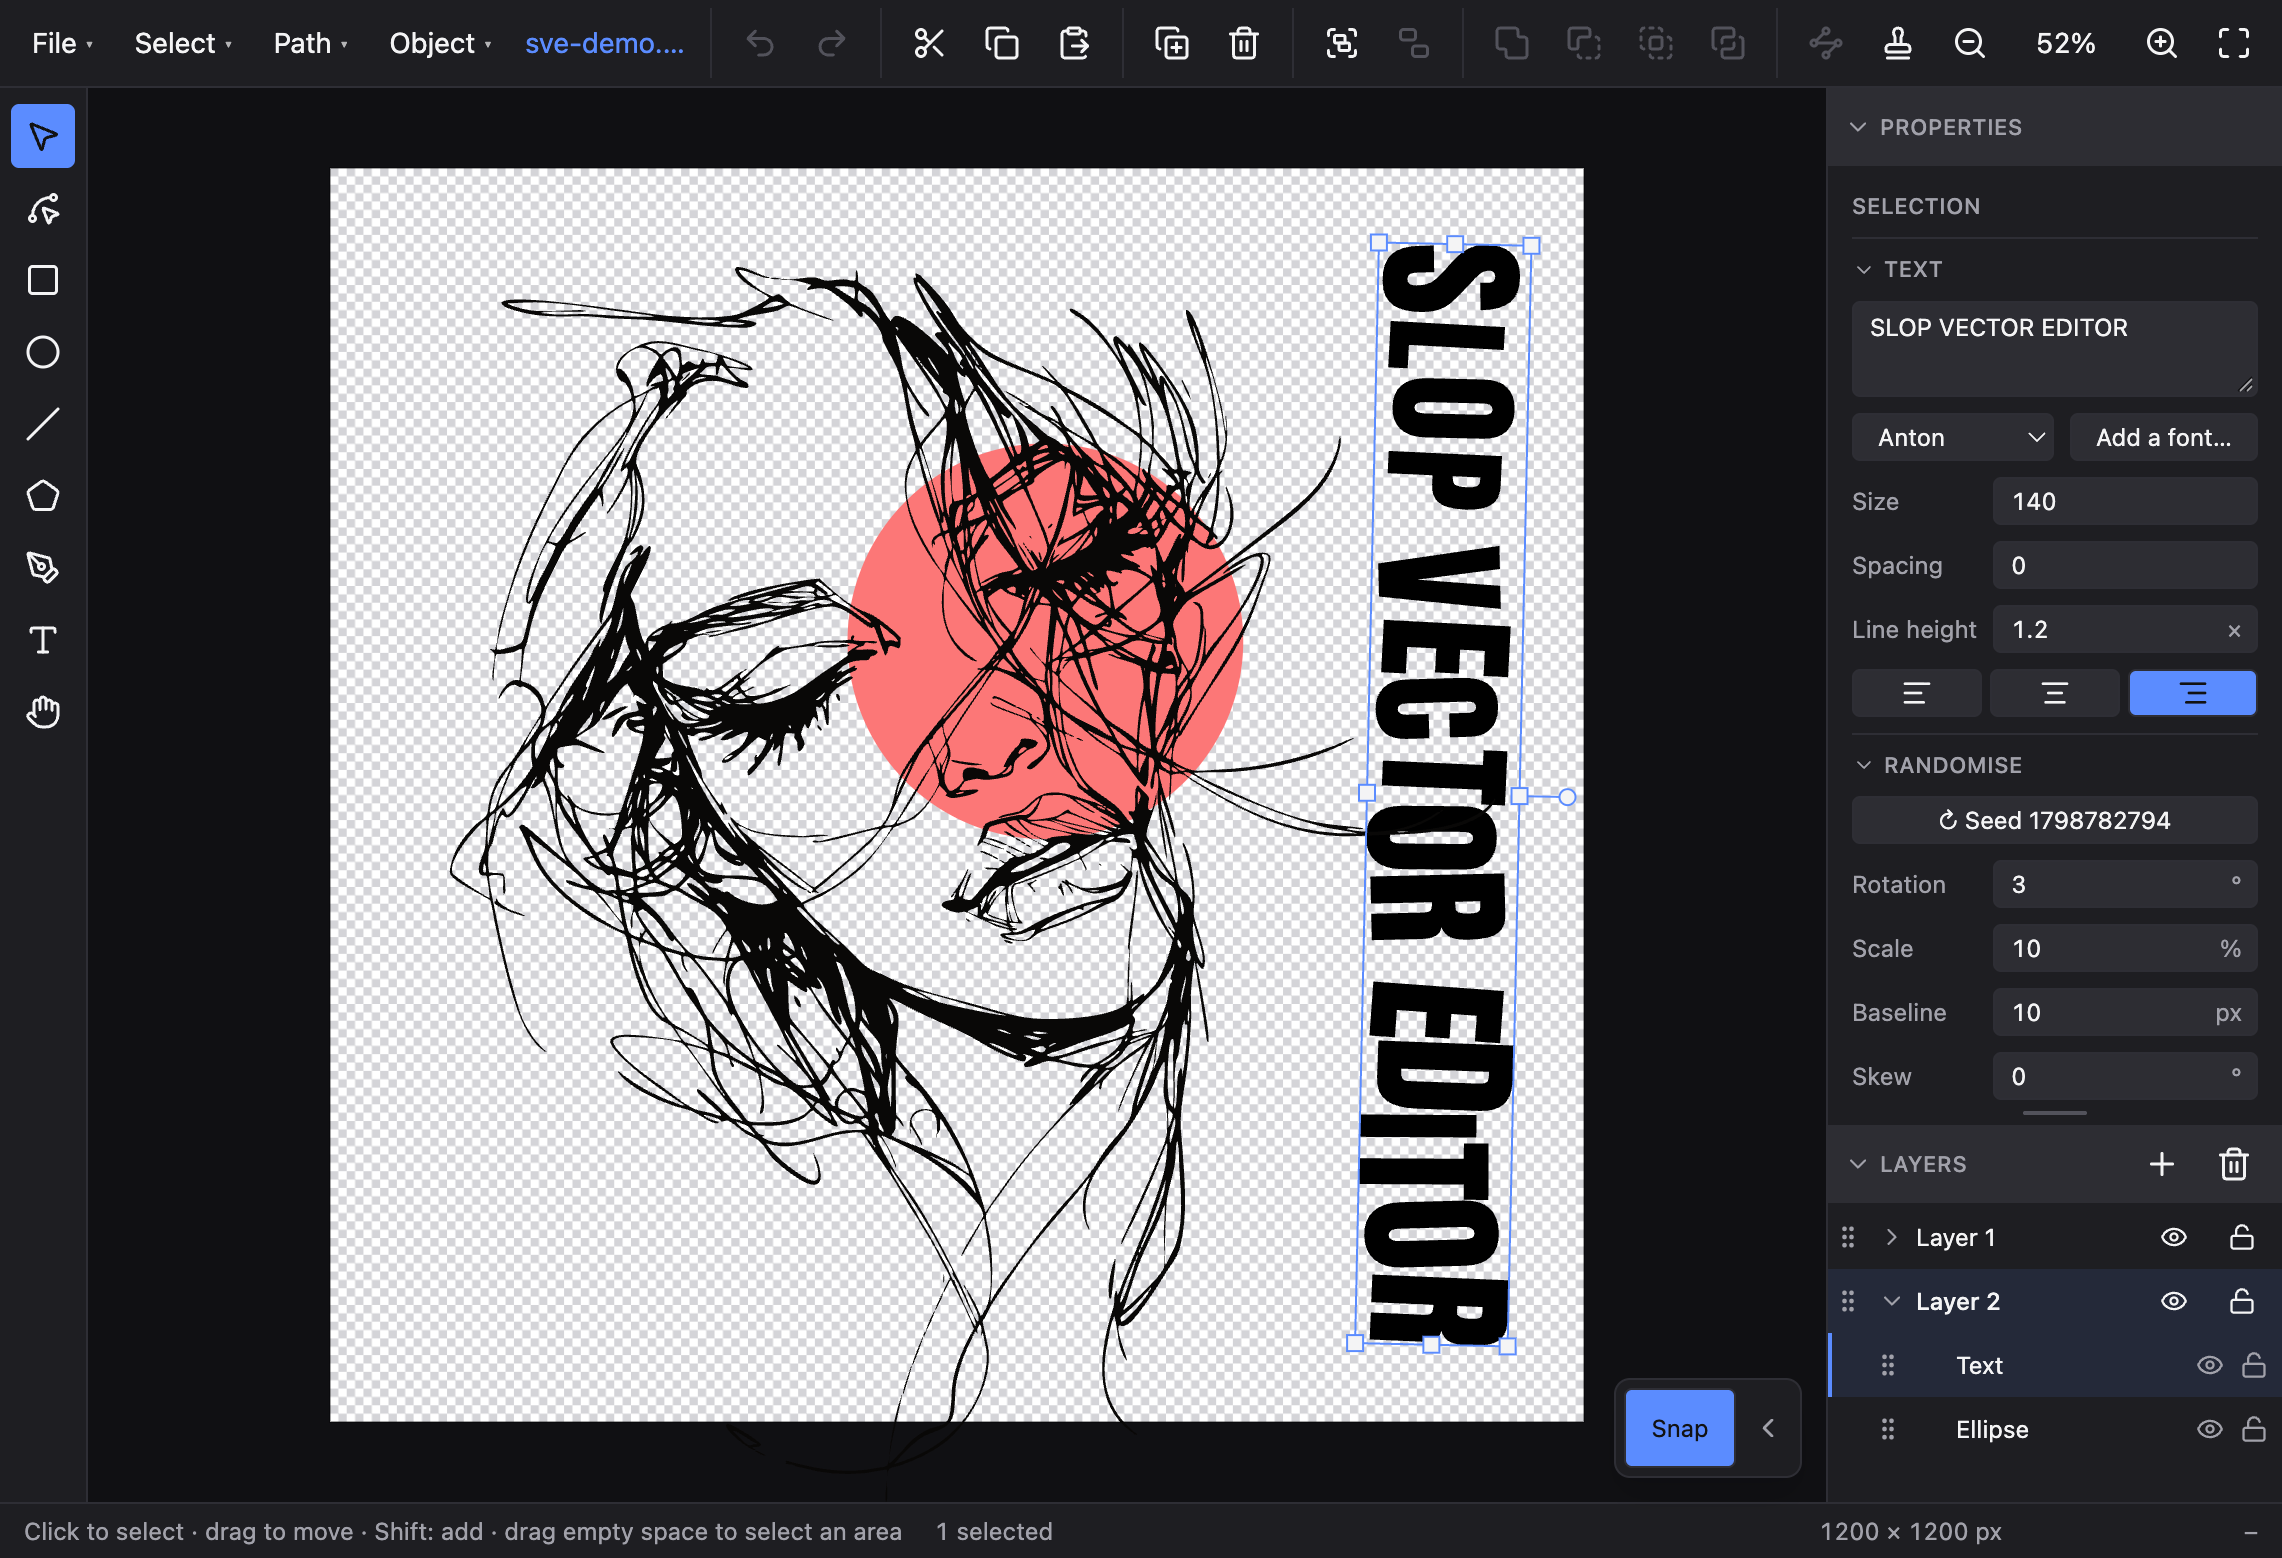
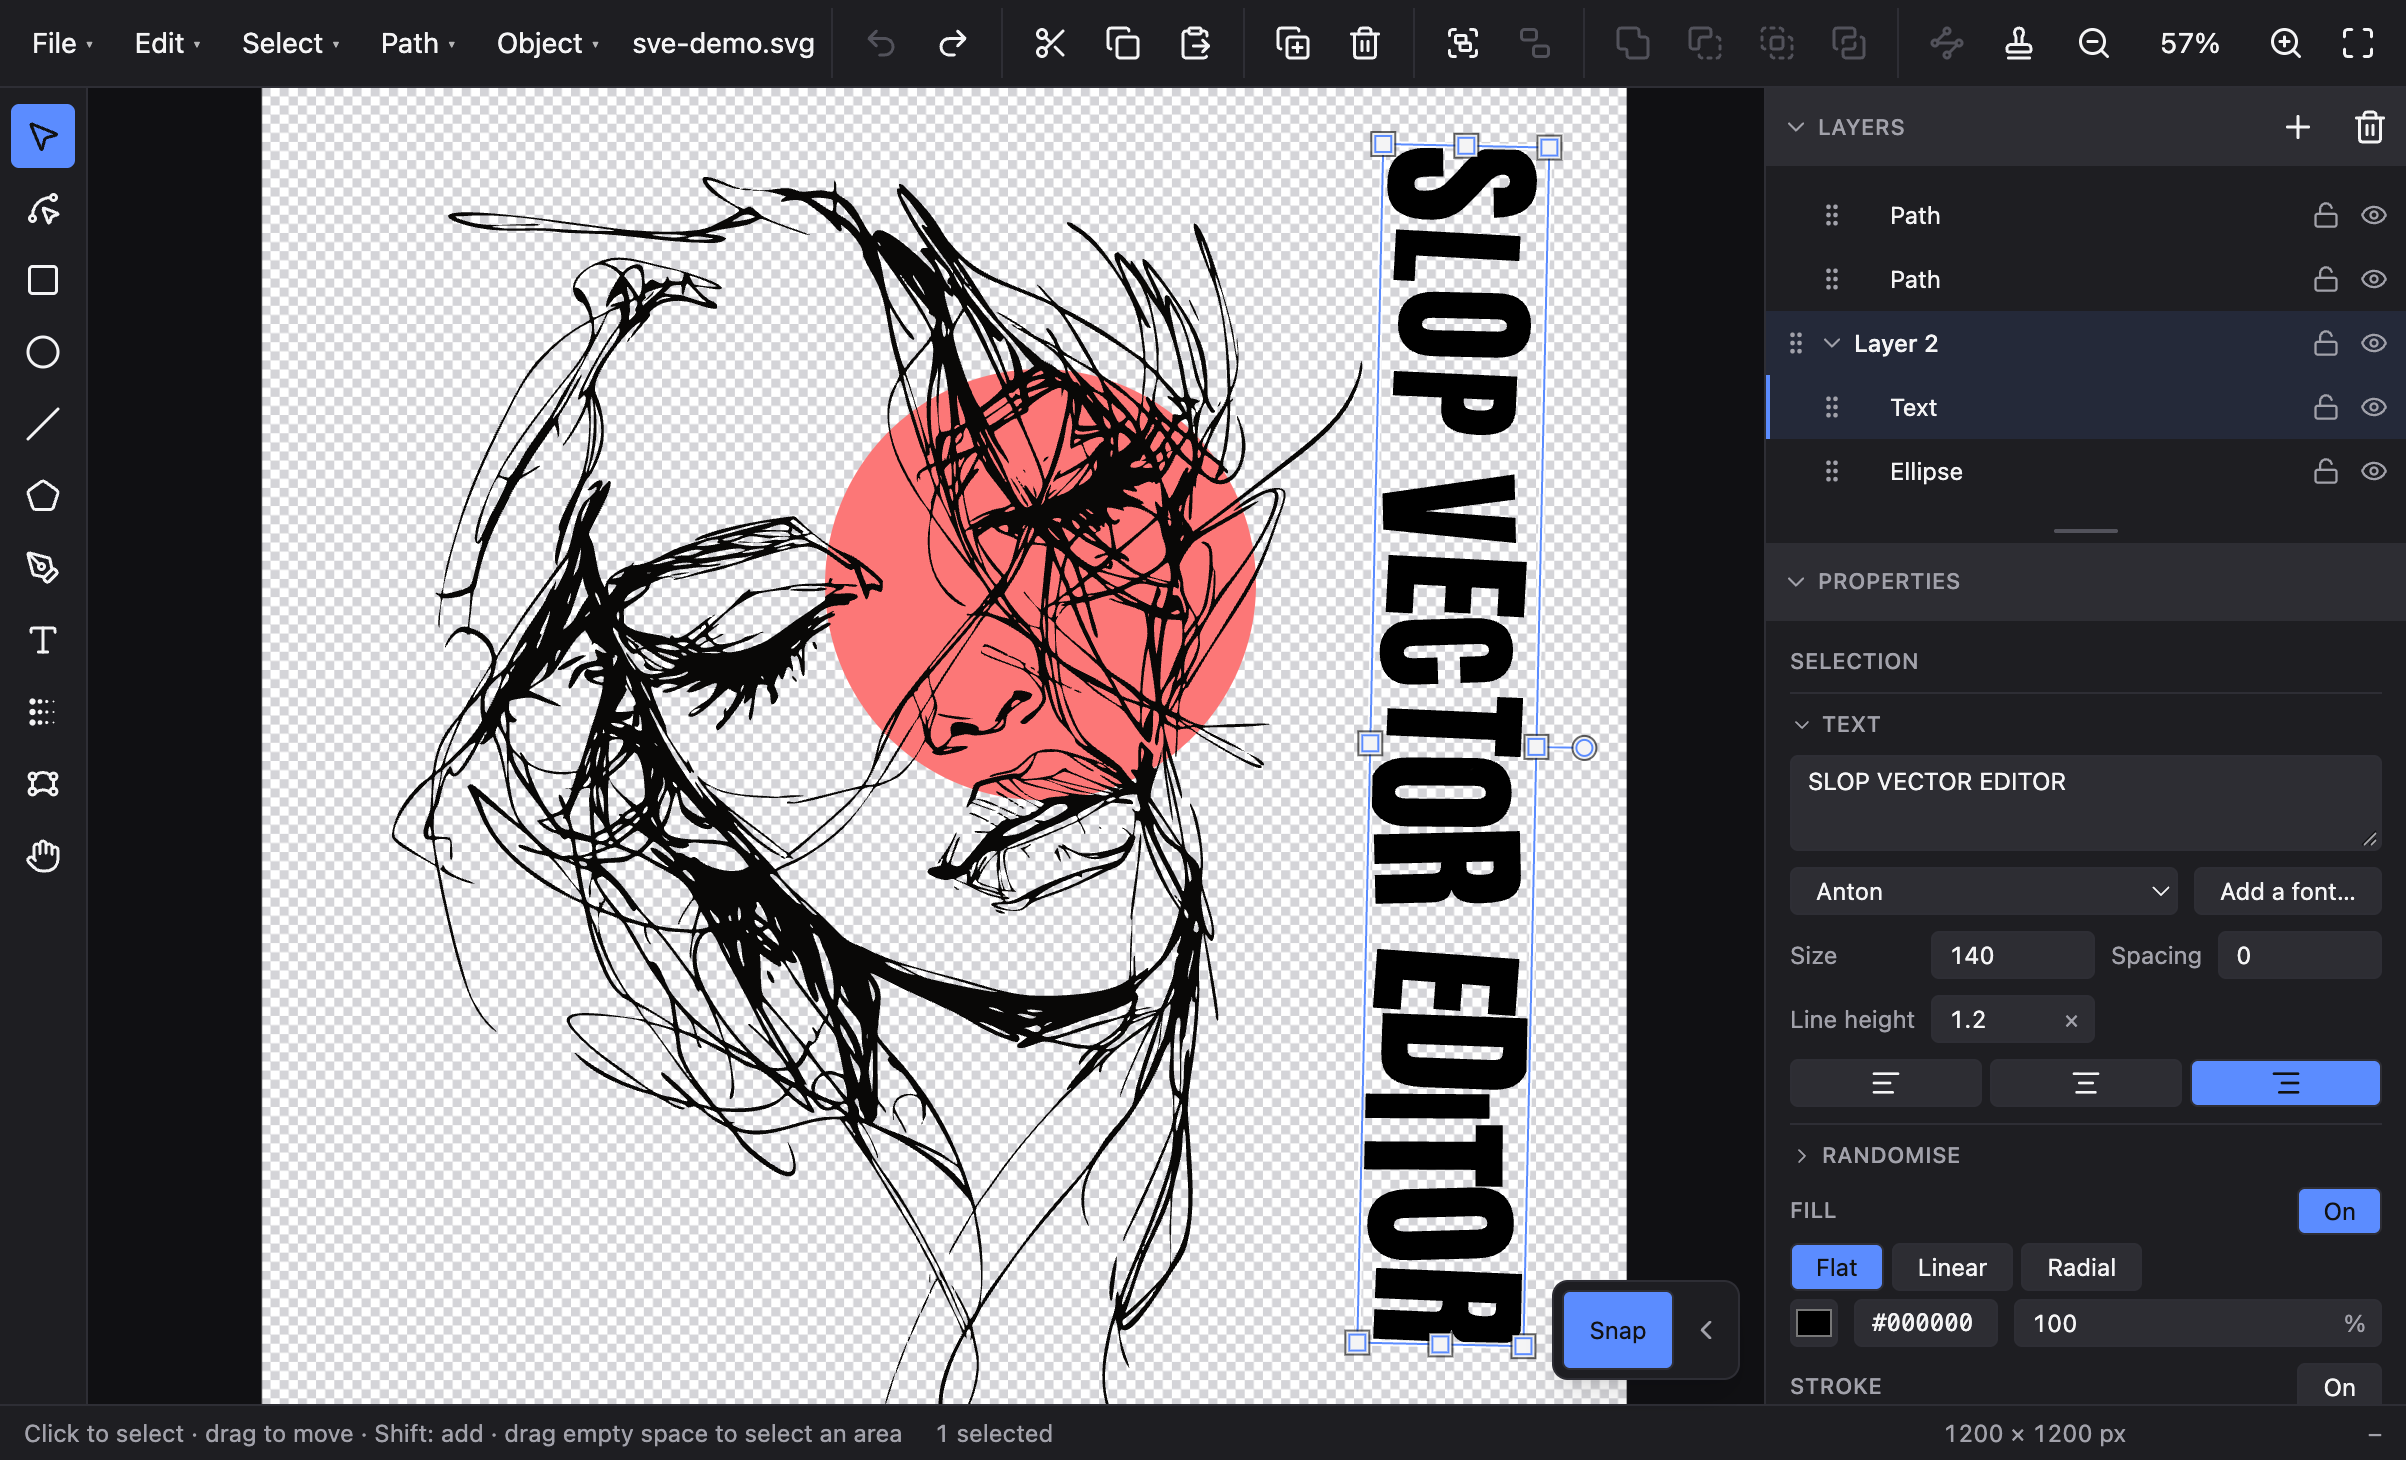
docs: update the README screenshot

diff --git a/README.md b/README.md
@@ -8,7 +8,7 @@ Your document is a plain `.svg` file: open it in any browser or design tool.
 
 **[Try it → slop-vector-editor.meigo.workers.dev](https://slop-vector-editor.meigo.workers.dev)**
 
-![The editor with a vectorised drawing open: the tool strip, a canvas holding a sketched portrait and a red circle, a selected vertical title reading “SLOP VECTOR EDITOR” with its per-character randomiser settings in the properties panel, the layers panel, and the on-screen modifier pad](docs/screenshot.png)
+![The editor with a vectorised drawing open: the tool strip, a canvas holding a sketched portrait and a red circle, a selected vertical title reading “SLOP VECTOR EDITOR” with its text settings — font, size, spacing, line height and alignment — in the properties panel, the layers panel, and the Snap toggle](docs/screenshot.png)
 
 ## Status
 
